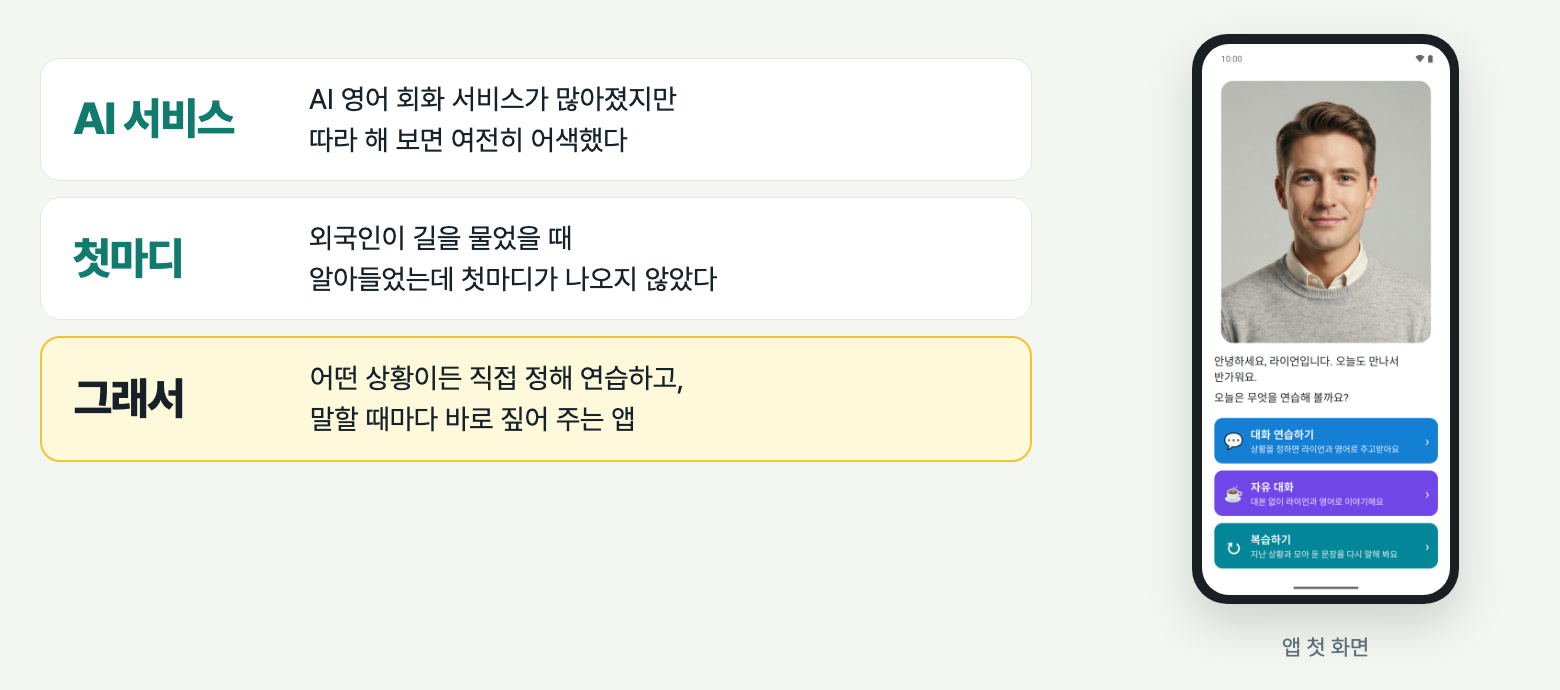
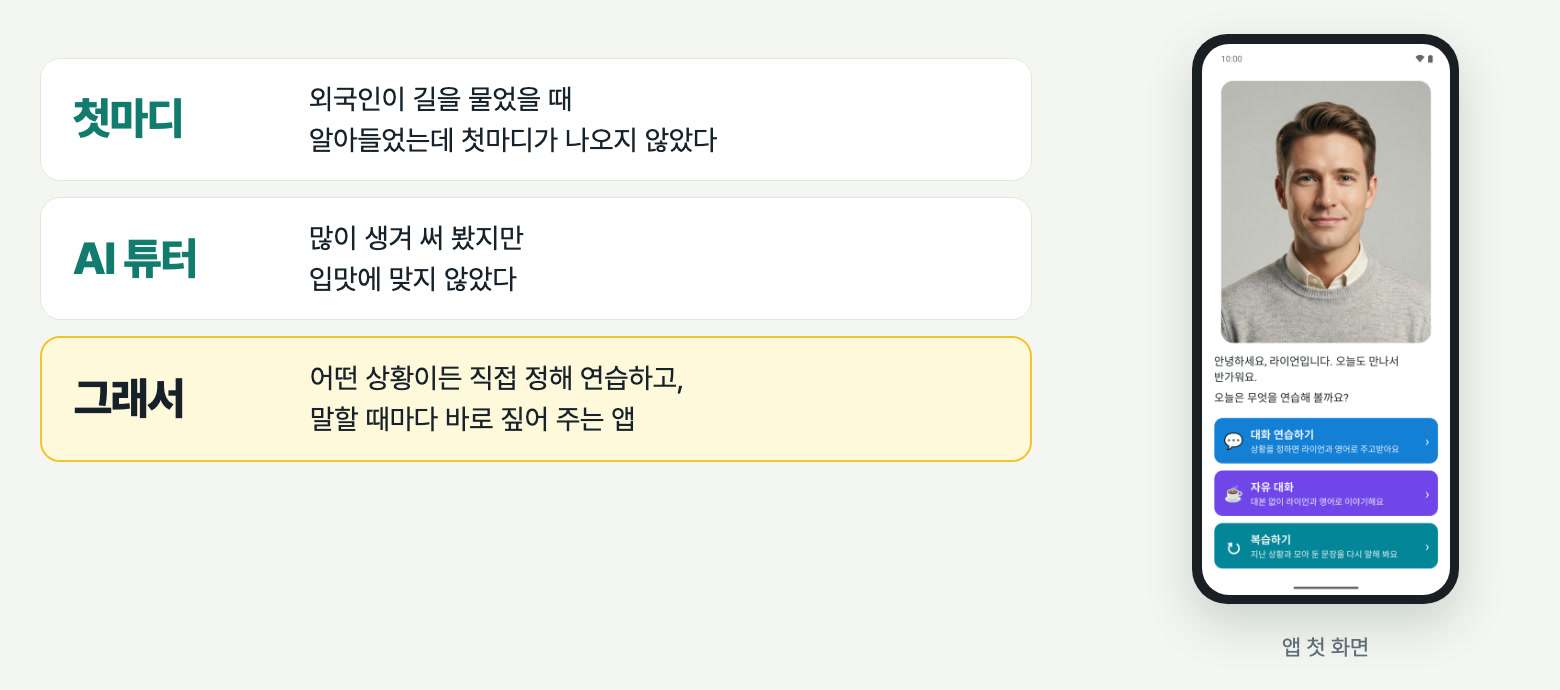
fix(content): retell why Jake English was built in the order it happened
The why chapter now follows the order of events: the first words that
would not come out, more visitors from abroad making everyday English
worth practising again, AI tutors that did not fit, and then building
the app. The chapter 1 slide is reshot with the same three lines.

diff --git a/content/site/jake-english.md b/content/site/jake-english.md
@@ -17,7 +17,7 @@ panels:
   - caption: 대본 없이 라이언과 영어로 이야기합니다. 말이 막히면 소희가 라이언이 무엇을 묻는지 알려 주고, 답할 힌트를 줍니다. 끝나면 고칠 곳을 하나씩 돌아봅니다.
 chapters:
   - title: 왜 만들었나
-    body: AI로 영어 회화를 연습하는 서비스가 많아졌지만, 따라 해 보면 여전히 어색했습니다. 그래서 어떤 상황이든 직접 정해 대화를 연습하고, 말할 때마다 바로 짚어 주는 앱을 제 입맛에 맞게 만들었습니다. 외국인이 길을 물었을 때 말은 알아들었는데 첫마디가 나오지 않았던 일도 계기가 됐습니다.
+    body: 외국인이 길을 물었을 때 말은 알아들었는데 첫마디가 나오지 않았습니다. 요즘 K팝과 K뷰티처럼 한국이 여러 분야에서 주목받으면서 외국인 관광객이 부쩍 늘어, 일상에서 영어로 대화하는 연습을 다시 하고 싶었습니다. 최근 많이 생긴 AI 튜터를 써 봤지만 제 입맛에 맞지 않았습니다. 그래서 어떤 상황이든 직접 정해 대화를 연습하고, 말할 때마다 바로 짚어 주는 앱을 만들었습니다.
   - title: 어떻게 동작하나
     body: 폰 앱은 화면과 녹음, 재생만 합니다. 받아쓰기(whisper.cpp)와 목소리(Qwen3-TTS)는 제 Mac에서 만들고, Claude API에는 글만 보냅니다. 집 밖에서는 폰이 개인 망(Tailscale)으로 Mac에 붙습니다.
   - title: AI와 일한 방식
@@ -39,7 +39,7 @@ chapters:
   그 가운데 pr-review 스킬의 리뷰 코멘트가 달린 PR이 58개다. 저장소가 더 자라도 날짜 범위의 값이라 바꾸지 않는다.
 - 영상 아래 한 줄 끝의 화살표는 화면에서 붙인다(읽지 않는 장식).
 - 이야기 4컷은 Gemini 앱으로 그린 그림이다. 이야기 4컷 절 소제목 "이야기 4컷"과 story의 1, 2번 문구(설계의 W11, W12)는 추천안으로 정했고 사용자가 확인했다(2026-11-11). story의 3, 4번과 panels의 3번은 2026-11-11에 사용자가 직접 고쳐 썼다.
-- chapters의 1장 문단(설계의 W9-1)은 2026-11-11에 사용자가 고쳐 썼다. 길 묻기 일화는 계기 하나이고, 만든 이유는 AI 회화 서비스가 따라 해 보면 어색했던 것이다. 1장 그림의 세 줄도 이 문단에 맞춰 바꿨다.
+- chapters의 1장 문단(설계의 W9-1)은 2026-11-11에 사용자가 화면을 보고 두 번 고쳐 썼다. 순서는 첫마디가 나오지 않은 일, 외국인 관광객이 늘어 일상 영어를 다시 연습하려 함, AI 튜터가 입맛에 맞지 않음, 직접 만듦이다. 1장 그림의 세 줄(첫마디, AI 튜터, 그래서)도 이 문단에 맞춰 바꿨다.
 - 연습하는 방법 절의 소제목 연습하는 방법과 panels의 네 칸 문구는 앱 코드에서 확인한 사실로 정한 추천안이다(2026-11-11). 번호와 연습 흐름이라는 순서는 번호 순서가 라이언이 늘 먼저 묻는 흐름처럼 읽혀서 뺐다.
 - 그림은 src/lib/jake-english-images.ts에 있다. 이야기 4컷 칸, 연습하는 방법 칸, 장의 순서는 story, panels, chapters의 순서와 같다.
 -->
